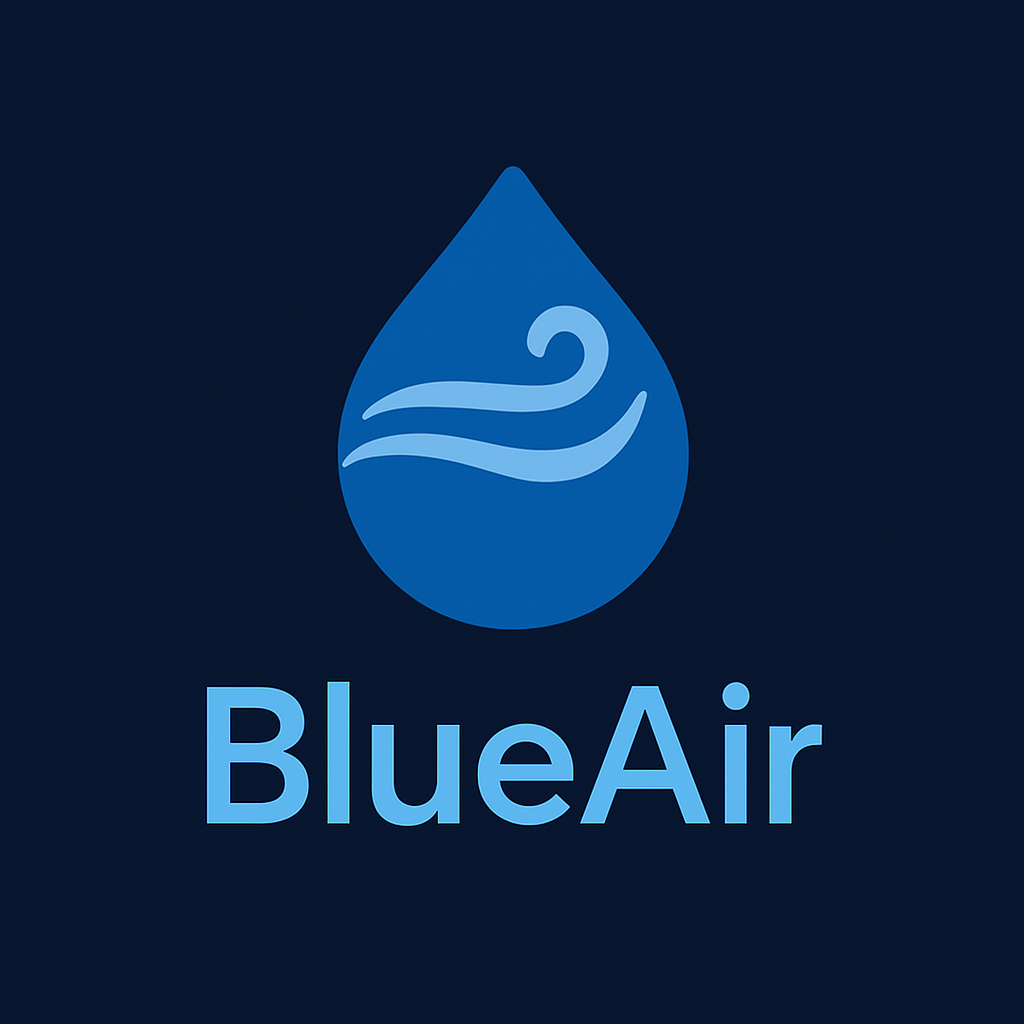
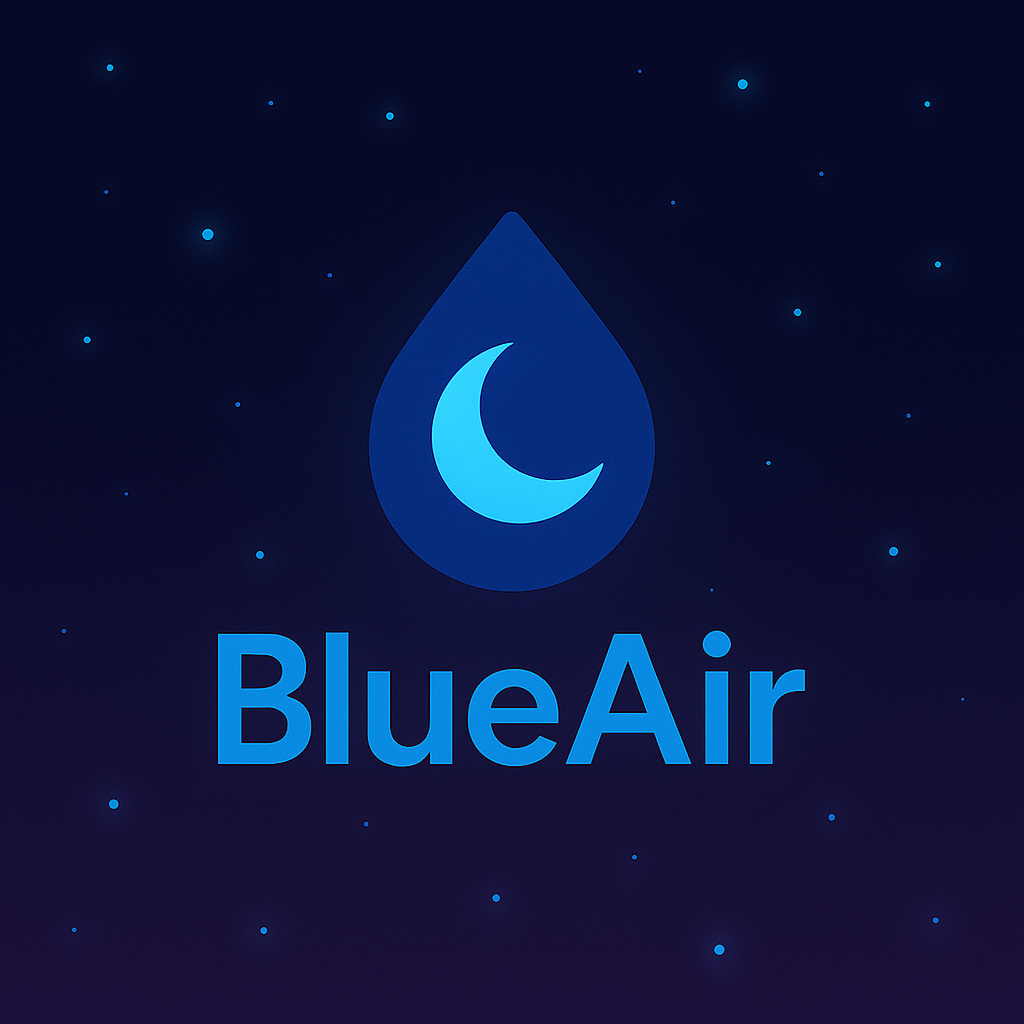
Gündüz/gece ikon düzeltmesi ve ikon dosyaları eklendi

diff --git a/app/(tabs)/home.tsx b/app/(tabs)/home.tsx
@@ -7,8 +7,9 @@ import * as Location from 'expo-location';
 import * as Notifications from 'expo-notifications';
 import { StatusBar } from 'expo-status-bar';
 import * as TaskManager from 'expo-task-manager';
+import LottieView from 'lottie-react-native';
 import React, { createContext, useContext, useEffect, useState } from 'react';
-import { ActivityIndicator, Image, Keyboard, KeyboardAvoidingView, Platform, ScrollView, StyleSheet, Text, TextInput, TouchableOpacity, View, ViewStyle } from 'react-native';
+import { ActivityIndicator, Keyboard, KeyboardAvoidingView, Platform, ScrollView, StyleSheet, Text, TextInput, TouchableOpacity, View, ViewStyle } from 'react-native';
 import { SafeAreaView } from 'react-native-safe-area-context';
 import { ForecastData, ForecastItem, get5DayForecastByCity, get5DayForecastByLocation, getWeatherByCity, getWeatherByLocation, WeatherData } from '../../services/weatherService';
 
@@ -60,6 +61,10 @@ export const translations = {
     info: 'Otomatik modda sistem teması veya saat (19:00-07:00 arası) koyu mod olarak uygulanır.',
     loading: 'Veri yükleniyor...',
     noData: 'Veri yok',
+    districtNotFound: '{district} bulunamadı, {city} için hava durumu gösteriliyor.',
+    pressure: 'Basınç',
+    sunrise: 'G. Doğumu',
+    sunset: 'G. Batımı',
   },
   en: {
     weather: 'Weather',
@@ -88,6 +93,10 @@ export const translations = {
     info: 'In auto mode, system theme or time (19:00-07:00) will be dark.',
     loading: 'Loading data...',
     noData: 'No data',
+    districtNotFound: '{district} not found, showing weather for {city}.',
+    pressure: 'Pressure',
+    sunrise: 'Sunrise',
+    sunset: 'Sunset',
   },
   ja: {
     weather: '天気',
@@ -116,6 +125,10 @@ export const translations = {
     info: '自動モードでは、システムテーマまたは時間（19:00～07:00）はダークになります。',
     loading: 'データを読み込み中...',
     noData: 'データなし',
+    districtNotFound: '{district}が見つかりませんでした。{city}の天気を表示しています。',
+    pressure: '気圧',
+    sunrise: '日の出',
+    sunset: '日の入り',
   },
   de: {
     weather: 'Wetter',
@@ -144,6 +157,10 @@ export const translations = {
     info: 'Im Automatikmodus wird das Systemthema oder die Zeit (19:00-07:00) als Dunkelmodus angewendet.',
     loading: 'Daten werden geladen...',
     noData: 'Keine Daten',
+    districtNotFound: '{district} wurde nicht gefunden, Wetter für {city} wird angezeigt.',
+    pressure: 'Luftdruck',
+    sunrise: 'Sonnenaufgang',
+    sunset: 'Sonnenuntergang',
   },
 };
 
@@ -198,6 +215,49 @@ function turkceKarakterleriDonustur(str: string) {
     .replace(/ç/g, 'c')
     .replace(/Ç/g, 'C');
 }
+
+// İlçe-büyükşehir eşlemesi
+const DISTRICT_TO_CITY: Record<string, string> = {
+  'bayrampasa': 'Istanbul',
+  'kağıthane': 'Istanbul',
+  'kagithane': 'Istanbul',
+  'esenler': 'Istanbul',
+  // Gerekirse diğer ilçeler eklenebilir
+};
+
+// Lottie animasyonlarını hava durumu koduna ve gündüz/geceye göre eşleştiren yardımcı fonksiyon
+const getWeatherLottie = (weatherMain: string, isNight: boolean) => {
+  switch (weatherMain.toLowerCase()) {
+    case 'clear':
+      return isNight
+        ? require('../../assets/lottie/clear-night.json')
+        : require('../../assets/lottie/clear-day.json');
+    case 'clouds':
+      return isNight
+        ? require('../../assets/lottie/partly-cloudy-night.json')
+        : require('../../assets/lottie/partly-cloudy-day.json');
+    case 'rain':
+      return require('../../assets/lottie/rain.json');
+    case 'drizzle':
+      return require('../../assets/lottie/drizzle.json');
+    case 'thunderstorm':
+      return require('../../assets/lottie/thunder.json');
+    case 'snow':
+      return require('../../assets/lottie/snow.json');
+    case 'mist':
+    case 'fog':
+    case 'haze':
+    case 'smoke':
+    case 'dust':
+    case 'sand':
+    case 'ash':
+      return require('../../assets/lottie/mist.json');
+    default:
+      return isNight
+        ? require('../../assets/lottie/partly-cloudy-night.json')
+        : require('../../assets/lottie/partly-cloudy-day.json');
+  }
+};
 
 export default function HomeScreen() {
   const { theme, isDark } = useContext(ThemeContext);
@@ -268,7 +328,6 @@ export default function HomeScreen() {
       setError(t('errorNoCity'));
       return;
     }
-    // Türkçe karakterleri dönüştür
     searchCity = turkceKarakterleriDonustur(searchCity.trim());
     setLoading(true);
     setError('');
@@ -279,9 +338,36 @@ export default function HomeScreen() {
       setForecast(forecastData);
       await addRecentCity(searchCity);
     } catch (err) {
-      setError(t('errorNoWeather'));
-      setWeather(null);
-      setForecast(null);
+      // İlçe API'da yoksa büyükşehire yönlendir
+      const lower = searchCity.toLowerCase();
+      let fallbackCity = null;
+      for (const district in DISTRICT_TO_CITY) {
+        if (lower.includes(district)) {
+          fallbackCity = DISTRICT_TO_CITY[district];
+          break;
+        }
+      }
+      if (fallbackCity) {
+        try {
+          const data = await getWeatherByCity(fallbackCity, lang);
+          setWeather(data);
+          const forecastData = await get5DayForecastByCity(fallbackCity, lang);
+          setForecast(forecastData);
+          setError(
+            t('districtNotFound')
+              .replace('{district}', capitalize(searchCity))
+              .replace('{city}', capitalize(fallbackCity))
+          );
+        } catch {
+          setError(t('errorNoWeather'));
+          setWeather(null);
+          setForecast(null);
+        }
+      } else {
+        setError(t('errorNoWeather'));
+        setWeather(null);
+        setForecast(null);
+      }
     } finally {
       setLoading(false);
     }
@@ -297,7 +383,7 @@ export default function HomeScreen() {
         setLoading(false);
         return;
       }
-      let location = await Location.getCurrentPositionAsync({});
+      let location = await Location.getCurrentPositionAsync({ accuracy: Location.Accuracy.High });
       const data = await getWeatherByLocation(location.coords.latitude, location.coords.longitude, lang);
       setWeather(data);
       const forecastData = await get5DayForecastByLocation(location.coords.latitude, location.coords.longitude, lang);
@@ -438,6 +524,15 @@ export default function HomeScreen() {
     })();
   }, []);
 
+  // Gündüz/gece ayrımı için UTC saatine forecast.city.timezone'u ekleyerek yerel saati hesapla
+  const isForecastNight = (dt: number) => {
+    const utcDate = new Date(dt * 1000);
+    const utcHour = utcDate.getUTCHours();
+    const timezoneOffset = (forecast?.city?.timezone || 0) / 3600;
+    const localHour = (utcHour + timezoneOffset + 24) % 24;
+    return !(localHour >= 9 && localHour < 21);
+  };
+
   return (
     <>
       <LinearGradient
@@ -530,17 +625,26 @@ export default function HomeScreen() {
                 </TouchableOpacity>
               )}
               {loading && <ActivityIndicator size="large" color={isDark ? '#fff' : '#0000ff'} />}
-              {error ? (
+              {error && (
                 <Text style={[styles.error, isDark && styles.darkText]}>{error}</Text>
-              ) : weather && (
+              )}
+              {weather && (
                 <View style={styles.weatherCard}>
                   <Text style={styles.cityName}>{turkceSehirAdi(weather.name)}</Text>
                   <View style={styles.tempRow}>
-                    <View style={[getModernForecastIconStyle(isDark), { marginRight: 20 }]}>
-                      <Image
-                        source={{ uri: `https://openweathermap.org/img/wn/${weather.weather[0].icon}@4x.png` }}
-                        style={iconImageStyle}
-                      />
+                    <View style={[getModernForecastIconStyle(isDark), { marginRight: 20, backgroundColor: 'transparent', shadowColor: 'transparent' }]}> 
+                      {(() => {
+                        const now = Date.now() / 1000;
+                        const isNightNow = now < weather.sys.sunrise || now > weather.sys.sunset;
+                        return (
+                          <LottieView
+                            source={getWeatherLottie(weather.weather[0].main, isNightNow)}
+                            autoPlay
+                            loop
+                            style={{ width: 72, height: 72 }}
+                          />
+                        );
+                      })()}
                     </View>
                     <View>
                       <Text style={styles.temperature}>{Math.round(weather.main.temp)}°C</Text>
@@ -570,6 +674,23 @@ export default function HomeScreen() {
                       <Text style={styles.detailValue}>{(weather.wind.speed * 3.6).toFixed(1)} km/sa</Text>
                     </View>
                   </View>
+                  <View style={styles.detailsRow}>
+                    <View style={styles.detailBox}>
+                      <MaterialCommunityIcons name="gauge" size={20} color="#b3c6f7" />
+                      <Text style={styles.detailLabel}>{t('pressure')}</Text>
+                      <Text style={styles.detailValue}>{weather.main.pressure} hPa</Text>
+                    </View>
+                    <View style={styles.detailBox}>
+                      <MaterialCommunityIcons name="weather-sunset-up" size={20} color="#b3c6f7" />
+                      <Text style={styles.detailLabel}>{t('sunrise')}</Text>
+                      <Text style={styles.detailValue}>{new Date(weather.sys.sunrise * 1000).toLocaleTimeString(undefined, { hour: '2-digit', minute: '2-digit' })}</Text>
+                    </View>
+                    <View style={styles.detailBox}>
+                      <MaterialCommunityIcons name="weather-sunset-down" size={20} color="#b3c6f7" />
+                      <Text style={styles.detailLabel}>{t('sunset')}</Text>
+                      <Text style={styles.detailValue}>{new Date(weather.sys.sunset * 1000).toLocaleTimeString(undefined, { hour: '2-digit', minute: '2-digit' })}</Text>
+                    </View>
+                  </View>
                 </View>
               )}
               {/* 5 günlük tahmin */}
@@ -577,19 +698,24 @@ export default function HomeScreen() {
                 <View style={styles.forecastContainer}>
                   <Text style={[styles.forecastTitle, isDark && styles.darkText]}>{t('forecast5')}</Text>
                   <ScrollView horizontal showsHorizontalScrollIndicator={false}>
-                    {getDailyForecast(forecast.list).map(item => (
-                      <View style={styles.modernForecastItem} key={item.dt}>
-                        <Text style={styles.modernForecastDay}>{new Date(item.dt_txt).toLocaleDateString(lang === 'de' ? 'de-DE' : lang === 'ja' ? 'ja-JP' : lang === 'en' ? 'en-US' : 'tr-TR', { weekday: 'short', day: 'numeric', month: 'short' })}</Text>
-                        <View style={getModernForecastIconStyle(isDark)}>
-                          <Image
-                            source={{ uri: `https://openweathermap.org/img/wn/${item.weather[0].icon}@4x.png` }}
-                            style={iconImageStyle}
-                          />
+                    {getDailyForecast(forecast.list).map(item => {
+                      const isNight = isForecastNight(item.dt);
+                      return (
+                        <View style={styles.modernForecastItem} key={item.dt}>
+                          <Text style={styles.modernForecastDay}>{new Date(item.dt_txt).toLocaleDateString(lang === 'de' ? 'de-DE' : lang === 'ja' ? 'ja-JP' : lang === 'en' ? 'en-US' : 'tr-TR', { weekday: 'short', day: 'numeric', month: 'short' })}</Text>
+                          <View style={getModernForecastIconStyle(isDark)}>
+                            <LottieView
+                              source={getWeatherLottie(item.weather[0].main, isNight)}
+                              autoPlay
+                              loop
+                              style={{ width: 56, height: 56 }}
+                            />
+                          </View>
+                          <Text style={styles.modernForecastTemp}>{Math.round(item.main.temp)}°C</Text>
+                          <Text style={styles.modernForecastDesc} numberOfLines={2} ellipsizeMode="tail">{formatDescription(item.weather[0].description)}</Text>
                         </View>
-                        <Text style={styles.modernForecastTemp}>{Math.round(item.main.temp)}°C</Text>
-                        <Text style={styles.modernForecastDesc} numberOfLines={2} ellipsizeMode="tail">{formatDescription(item.weather[0].description)}</Text>
-                      </View>
-                    ))}
+                      );
+                    })}
                   </ScrollView>
                 </View>
               )}
@@ -599,19 +725,41 @@ export default function HomeScreen() {
                   <Text style={[styles.forecastTitle, isDark && styles.darkText]}>{t('forecast3h')}</Text>
                   {forecast.list && forecast.list.length > 0 ? (
                     <ScrollView horizontal showsHorizontalScrollIndicator={false}>
-                      {forecast.list.slice(0, 8).map(item => (
-                        <View style={styles.modernForecastItem} key={item.dt + '-hourly'}>
-                          <Text style={styles.modernForecastDay}>{new Date(item.dt_txt).toLocaleTimeString(lang === 'de' ? 'de-DE' : lang === 'ja' ? 'ja-JP' : lang === 'en' ? 'en-US' : 'tr-TR', { hour: '2-digit', minute: '2-digit' })}</Text>
-                          <View style={getModernForecastIconStyle(isDark)}>
-                            <Image
-                              source={{ uri: `https://openweathermap.org/img/wn/${item.weather[0].icon}@4x.png` }}
-                              style={iconImageStyle}
-                            />
+                      {forecast.list.slice(0, 8).map(item => {
+                        const utcDate = new Date(item.dt * 1000);
+                        const utcHour = utcDate.getUTCHours();
+                        const timezoneOffset = (forecast?.city?.timezone || 0) / 3600;
+                        const localHour = (utcHour + timezoneOffset + 24) % 24;
+                        const localDt = item.dt + (forecast?.city?.timezone || 0);
+                        const date = new Date(localDt * 1000);
+                        const today = new Date();
+                        let isNight;
+                        if (
+                          date.getDate() === today.getDate() &&
+                          date.getMonth() === today.getMonth() &&
+                          date.getFullYear() === today.getFullYear() &&
+                          weather?.sys?.sunrise && weather?.sys?.sunset
+                        ) {
+                          isNight = localDt < weather.sys.sunrise || localDt > weather.sys.sunset;
+                        } else {
+                          isNight = !(localHour >= 9 && localHour < 21);
+                        }
+                        return (
+                          <View style={styles.modernForecastItem} key={item.dt + '-hourly'}>
+                            <Text style={styles.modernForecastDay}>{new Date(item.dt_txt).toLocaleTimeString(lang === 'de' ? 'de-DE' : lang === 'ja' ? 'ja-JP' : lang === 'en' ? 'en-US' : 'tr-TR', { hour: '2-digit', minute: '2-digit' })}</Text>
+                            <View style={getModernForecastIconStyle(isDark)}>
+                              <LottieView
+                                source={getWeatherLottie(item.weather[0].main, isNight)}
+                                autoPlay
+                                loop
+                                style={{ width: 56, height: 56 }}
+                              />
+                            </View>
+                            <Text style={styles.modernForecastTemp}>{Math.round(item.main.temp)}°C</Text>
+                            <Text style={styles.modernForecastDesc} numberOfLines={2} ellipsizeMode="tail">{formatDescription(item.weather?.[0]?.description || '')}</Text>
                           </View>
-                          <Text style={styles.modernForecastTemp}>{Math.round(item.main.temp)}°C</Text>
-                          <Text style={styles.modernForecastDesc} numberOfLines={2} ellipsizeMode="tail">{formatDescription(item.weather?.[0]?.description || '')}</Text>
-                        </View>
-                      ))}
+                        );
+                      })}
                     </ScrollView>
                   ) : (
                     <Text style={{ color: isDark ? '#fff' : '#222', textAlign: 'center', marginTop: 12 }}>{forecast ? t('loading') || 'Veri yükleniyor...' : t('noData') || 'Veri yok'}</Text>

diff --git a/services/weatherService.ts b/services/weatherService.ts
@@ -20,6 +20,10 @@ export interface WeatherData {
     speed: number;
   };
   name: string;
+  sys: {
+    sunrise: number;
+    sunset: number;
+  };
 }
 
 export interface ForecastItem {
@@ -46,6 +50,7 @@ export interface ForecastData {
   city: {
     name: string;
     country: string;
+    timezone: number;
   };
 }
 
